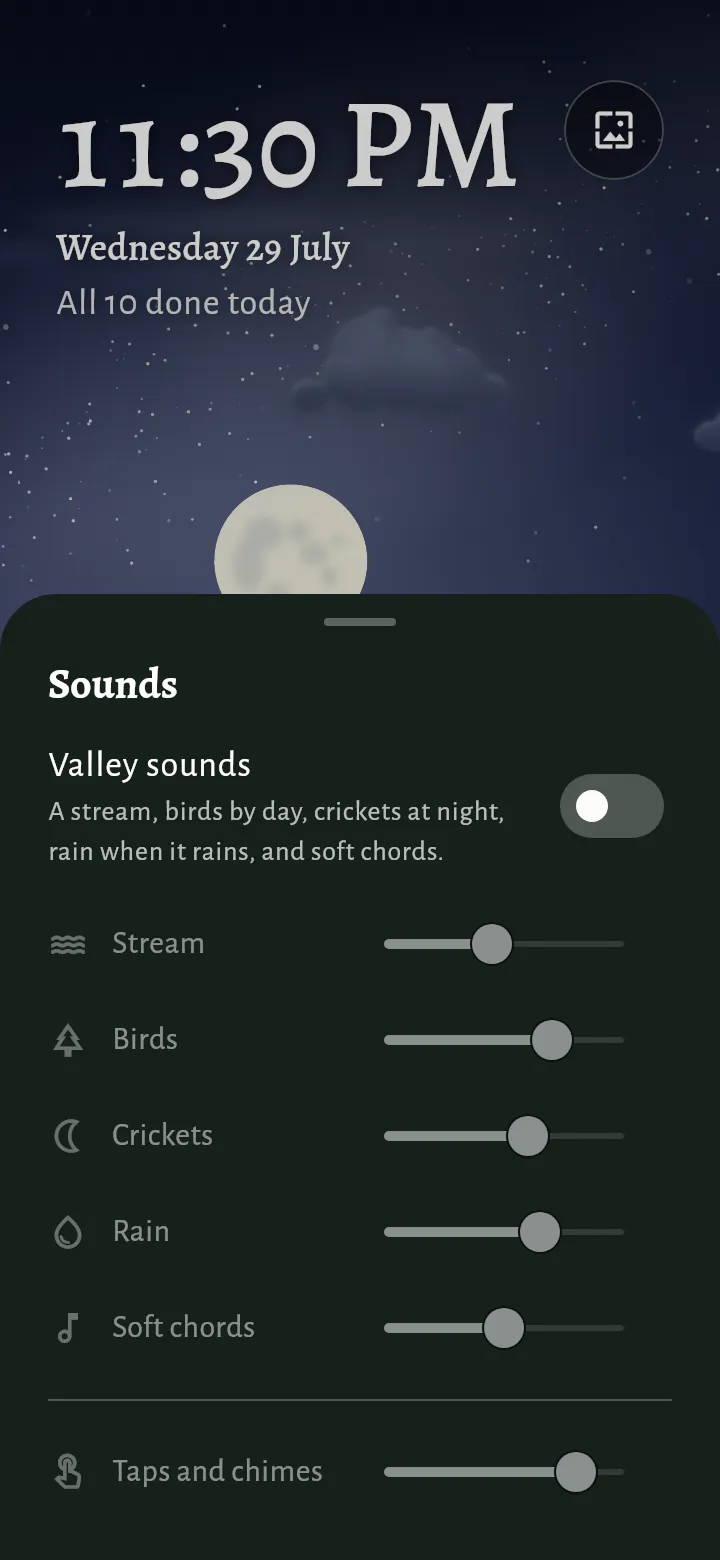
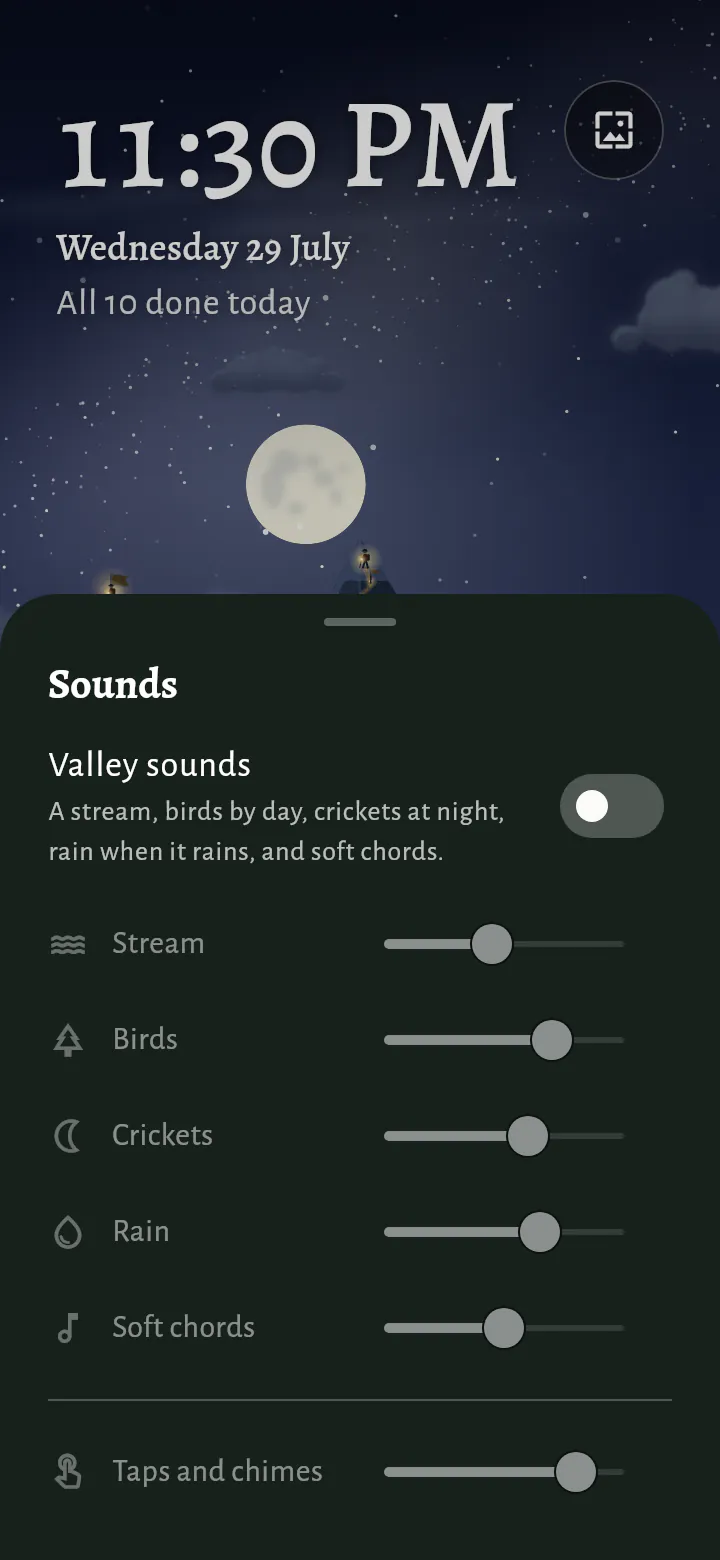
Show Grove's zen on upright phones as before in the guide

diff --git a/grove/guide/how-it-works.html b/grove/guide/how-it-works.html
@@ -1513,13 +1513,12 @@
 <h2>Zen mode</h2>
 <ul>
 <li>Tap the zen button (the arrows at the top of the valley), or press and hold the valley, to see it full screen. On Android you can also press and hold Grove's icon and choose <strong>Zen mode</strong>.</li>
-<li>The land fills the lower part of the screen, with a tall sky above. On a clear night it shows the Milky Way and now and then a shooting star; by day a hawk circles.</li>
-<li>On a phone held upright, the valley is drawn a little nearer, so its plants and mountains are larger and less of the screen is empty meadow. Its sides reach a little past the screen's edges. <span class="since">Coming in 1.8</span></li>
+<li>The land fills about the lower half of the screen, with a tall sky above. On a clear night it shows the Milky Way and now and then a shooting star; by day a hawk circles.</li>
 <li>On a tablet or an open foldable held upright, zen shows sideways, as it does on a tablet held sideways: turn the device to its left to see it. With auto-rotate on, the screen turns with the device; with it off, zen stays sideways. While you make a wallpaper, zen is upright, as a wallpaper is. <span class="since">Coming in 1.8</span></li>
 <li>Tap the screen to show the time, the date, how today is going and the buttons. They fade again after a few seconds. You can add sunrise, sunset and the moon to them (see below). <span class="since">Added in 1.6</span></li>
 </ul>
 <figure class="shot">
-<picture><img src="shots/zen-360.webp" srcset="shots/zen-360.webp 360w, shots/zen.webp 720w" sizes="(min-width: 48rem) 16rem, min(18rem, calc(100vw - 2rem))" width="360" height="780" alt="Zen mode filling a phone: a starry night with a full moon over mountains with lit trails, drawn near enough that their sides run past the screen, and the time, 11:30 PM, Wednesday 29 July, &quot;All 10 done today&quot;. At the top right, a round button to make a wallpaper; at the bottom, four more: Screenshot, Keep screen on, Sounds and Leave zen mode." loading="lazy" decoding="async"></picture>
+<picture><img src="shots/zen-360.webp" srcset="shots/zen-360.webp 360w, shots/zen.webp 720w" sizes="(min-width: 48rem) 16rem, min(18rem, calc(100vw - 2rem))" width="360" height="780" alt="Zen mode filling a phone: a starry night with a full moon over three mountains with lit trails, and the time, 11:30 PM, Wednesday 29 July, &quot;All 10 done today&quot;. At the top right, a round button to make a wallpaper; at the bottom, four more: Screenshot, Keep screen on, Sounds and Leave zen mode." loading="lazy" decoding="async"></picture>
 <figcaption>Zen mode on a night of full moon, after a tap.</figcaption>
 </figure>
 <ul>

diff --git a/grove/guide/whats-new.html b/grove/guide/whats-new.html
@@ -416,7 +416,6 @@
 <section id="zen-mode" class="level3">
 <h3>Zen mode</h3>
 <ul>
-<li>On a phone held upright, zen draws the valley a little nearer: its plants and mountains are larger, the hills lower, and less of the screen is empty meadow.</li>
 <li>On a tablet or an open foldable held upright, zen shows sideways, as it does on a tablet held sideways: turn the device to its left to see it. While you make a wallpaper, zen is upright.</li>
 </ul>
 </section>
